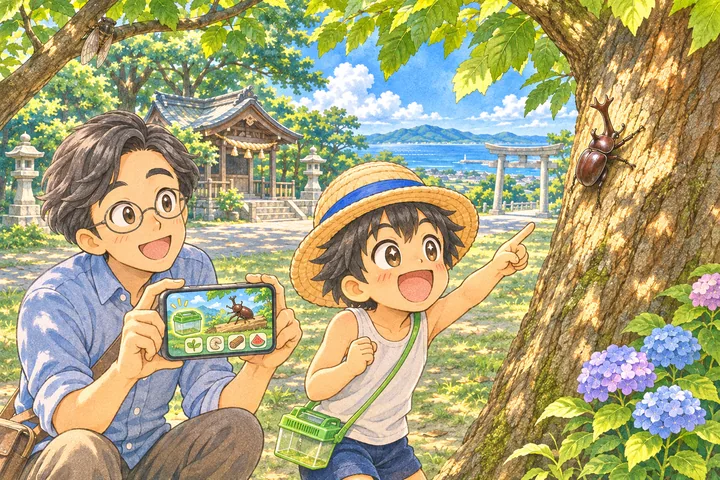
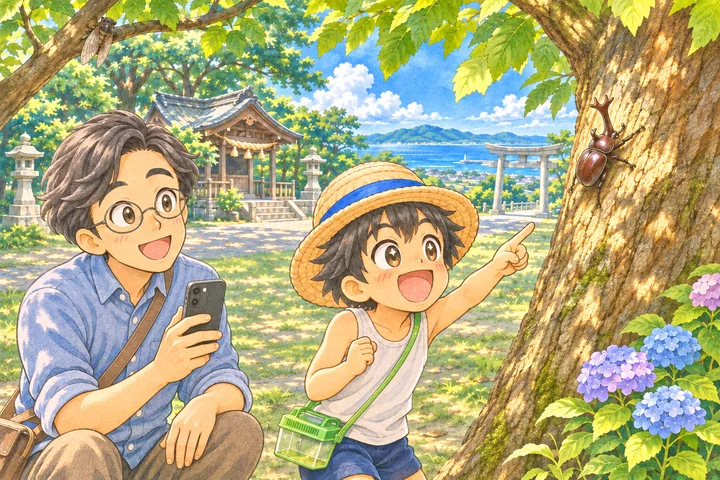
虫そだて日記：そとで虫とり＆スマホ／おうちで観察＆タブレットの言い方に、あそびかたにアイコン、トップのカードの文言をページに合わせる

diff --git a/mushisodate/index.html b/mushisodate/index.html
@@ -22,7 +22,7 @@
 <link rel="preconnect" href="https://fonts.googleapis.com">
 <link rel="preconnect" href="https://fonts.gstatic.com" crossorigin>
 <link href="https://fonts.googleapis.com/css2?family=Mochiy+Pop+One&family=Zen+Maru+Gothic:wght@500;700;900&display=swap" rel="stylesheet">
-<link rel="stylesheet" href="../assets/css/style.css?v=202611171400">
+<link rel="stylesheet" href="../assets/css/style.css?v=202611171600">
 </head>
 <body class="subpage" data-base="../">
 
@@ -84,17 +84,18 @@
       </section>
 
       <section class="doc g-flow reveal">
-        <h2><span class="h-ic" data-icon="pin"></span>そとでスマホ、おうちでタブレット</h2>
+        <h2><span class="h-ic" data-icon="pin"></span>そとで虫とり＆スマホでもゲット！<br>おうちで虫の観察＆タブレットでも</h2>
+        <p>本物の虫とりと、ゲームの体験を いっしょに楽しめます。</p>
         <ol class="g-flow-list">
-          <li class="reveal"><figure><img src="../assets/img/games/mushisodate/f_sagasu.webp" alt="神社の近くの大きな木で、おとうさんのスマホを持って、クワガタを見つけた男の子" width="720" height="480" loading="lazy"></figure>
-            <p class="f-dev"><img src="../assets/img/icons/pin.webp" alt="" width="24" height="24">そと・スマホ</p><h3>さがす・つかまえる</h3>
-            <p>おうちの人のスマホを持って、公園や神社、川や海べへ。いまいる場所で、その場所らしい虫が見つかります。</p></li>
+          <li class="reveal"><figure><img src="../assets/img/games/mushisodate/f_sagasu.webp?v=2" alt="神社の近くの大きな木で、カブトムシを見つけた男の子と、スマホを持ったおとうさん" width="720" height="480" loading="lazy"></figure>
+            <p class="f-dev"><img src="../assets/img/icons/pin.webp" alt="" width="24" height="24">そと・虫とり</p><h3>虫とり＆スマホでゲット</h3>
+            <p>公園や神社、川や海べで虫とり。スマホのゲームでも、その場所らしい虫が見つかります。</p></li>
           <li class="reveal"><figure><img src="../assets/img/games/mushisodate/f_toru.webp" alt="花にとまったアゲハチョウを、スマホのカメラで撮る男の子" width="720" height="480" loading="lazy"></figure>
             <p class="f-dev"><img src="../assets/img/icons/camera.webp" alt="" width="24" height="24">そと・スマホのカメラ</p><h3>撮る</h3>
             <p>本物の虫を見つけたら、カメラでパチリ。「どの虫だった？」からえらぶと、その虫をつかまえられます。</p></li>
           <li class="reveal"><figure><img src="../assets/img/games/mushisodate/f_sodateru.webp" alt="おうちで、タブレットの虫かごの画面を見ながら虫をそだてる男の子とおとうさん" width="720" height="480" loading="lazy"></figure>
-            <p class="f-dev"><img src="../assets/img/icons/home.webp" alt="" width="24" height="24">おうち・タブレット／パソコン</p><h3>おうちでそだてる</h3>
-            <p>つかまえた虫は、QRコードで おうちのタブレットやパソコンへ。エサ・きりふき・そうじをして、羽化したら もとの場所にかえそう。</p></li>
+            <p class="f-dev f-dev-long"><img src="../assets/img/icons/home.webp" alt="" width="24" height="24">おうち・虫のしいく<br>タブレット／パソコン</p><h3>観察して、そだてる</h3>
+            <p>つかまえた虫は、QRコードでタブレットやパソコンへ。本物の虫の観察といっしょに、そだてよう。</p></li>
         </ol>
         <p class="g-small">※虫をそだてるのは、画面の大きなタブレット・パソコンがおすすめです。スマホは、外で虫をつかまえる「虫とり用」に。</p>
       </section>
@@ -116,10 +117,10 @@
       <section class="doc reveal">
         <h2><span class="h-ic" data-icon="join"></span>あそびかた</h2>
         <ol class="g-steps">
-          <li class="g-step reveal"><span class="s-no">1</span><h3>ストーリー</h3><p>7月19日から8月31日までの夏休み。虫をそだてながら、宗像の6つの場所で出会う ふしぎを追いかける物語です。</p></li>
-          <li class="g-step reveal"><span class="s-no">2</span><h3>じゆうに育てる</h3><p>すきな場所で虫をさがして、すきなだけそだてよう。おみせ・虫ずもう・ずかんで、しるし（虫そだて名人・虫はかせ）をめざそう。</p></li>
-          <li class="g-step reveal"><span class="s-no">3</span><h3>そとで虫をつかまえる（スマホ）</h3><p>おうちの人のスマホで、いまいる場所の虫をさがそう。近くの公園や神社、川や海べなら、その場所らしい虫が見つかります。</p></li>
-          <li class="g-step reveal"><span class="s-no">4</span><h3>おうちのタブレットにおくる</h3><p>そとでつかまえた虫は、QRコードで おうちのタブレットやパソコンへ。帰ってから虫かごでそだてられます。</p></li>
+          <li class="g-step reveal"><span class="s-no">1</span><h3><img class="st-ic" src="../assets/img/games/mushisodate/i_story.webp" alt="">ストーリー</h3><p>7月19日から8月31日までの夏休み。虫をそだてながら、宗像の6つの場所で出会う ふしぎを追いかける物語です。</p></li>
+          <li class="g-step reveal"><span class="s-no">2</span><h3><img class="st-ic" src="../assets/img/games/mushisodate/i_jiyu.webp" alt="">じゆうに育てる</h3><p>すきな場所で虫をさがして、すきなだけそだてよう。おみせ・虫ずもう・ずかんで、しるし（虫そだて名人・虫はかせ）をめざそう。</p></li>
+          <li class="g-step reveal"><span class="s-no">3</span><h3><img class="st-ic" src="../assets/img/games/mushisodate/i_soto.webp" alt="">そとで虫をつかまえる（スマホ）</h3><p>おうちの人のスマホで、いまいる場所の虫をさがそう。近くの公園や神社、川や海べなら、その場所らしい虫が見つかります。</p></li>
+          <li class="g-step reveal"><span class="s-no">4</span><h3><img class="st-ic" src="../assets/img/games/mushisodate/i_okuru.webp" alt="">おうちのタブレットにおくる</h3><p>そとでつかまえた虫は、QRコードで おうちのタブレットやパソコンへ。帰ってから虫かごでそだてられます。</p></li>
         </ol>
       </section>
 

diff --git a/assets/js/main.js b/assets/js/main.js
@@ -481,7 +481,8 @@
   /* ───── あそぶ ───── */
   // ゲームの特長のしるし（site.json の games[].tags）
   const GAME_TAG = { free: '無料', browser: 'ダウンロードなし', tablet: 'お子さまはタブレットで' };
-  const gameTags = tags => (tags || []).length ? `<ul class="g-tags">${tags.filter(t => GAME_TAG[t]).map(t => `<li>${uiIcon(t)}${GAME_TAG[t]}</li>`).join('')}</ul>` : '';
+  // tagText：ゲームごとに言い方をかえる（例：虫そだて日記は「あそぶのは タブレット・パソコン」。紹介ページの文言に合わせる）
+  const gameTags = (tags, over) => (tags || []).length ? `<ul class="g-tags">${tags.filter(t => GAME_TAG[t]).map(t => `<li>${uiIcon(t)}${esc((over || {})[t] || GAME_TAG[t])}</li>`).join('')}</ul>` : '';
   function renderGames() {
     $('#gameGrid').innerHTML = (SITE.games || []).map(g => {
       const open = g.status === 'open' && g.url;
@@ -492,7 +493,7 @@
         ${g.badge ? `<span class="g-badge">${uiIcon('star')}${er(g.badge)}</span>` : ''}
         ${open ? `<a href="${esc(g.url)}" target="_blank" rel="noopener" tabindex="-1" aria-hidden="true">${visual}</a>` : visual}
         <div class="g-body"><h3>${er(g.title)}</h3><p>${er(g.desc)}</p>
-        ${gameTags(g.tags)}
+        ${gameTags(g.tags, g.tagText)}
         <div class="g-btns">${g.page ? `<a class="btn btn-sub g-info" href="${esc(g.page)}">ゲームの内容</a>` : ''}
         ${open ? `<a class="btn btn-main" href="${esc(g.url)}" target="_blank" rel="noopener">あそぶ ▶</a>` : '<span class="btn">もうすぐ公開</span>'}</div></div>
       </article>`;

diff --git a/index.html b/index.html
@@ -38,7 +38,7 @@
 <link rel="preconnect" href="https://fonts.googleapis.com">
 <link rel="preconnect" href="https://fonts.gstatic.com" crossorigin>
 <link href="https://fonts.googleapis.com/css2?family=Mochiy+Pop+One&family=Zen+Maru+Gothic:wght@500;700;900&display=swap" rel="stylesheet">
-<link rel="stylesheet" href="assets/css/style.css?v=202611171400">
+<link rel="stylesheet" href="assets/css/style.css?v=202611171600">
 </head>
 <body>
 
@@ -386,7 +386,7 @@
 
 <script src="assets/js/icons.js?v=202611121300"></script>
 <script src="assets/js/apply.js?v=202611101657"></script>
-<script src="assets/js/main.js?v=202611161200"></script>
+<script src="assets/js/main.js?v=202611171600"></script>
 <script src="assets/js/share.js?v=202611121900"></script>
 </body>
 </html>

diff --git a/assets/css/style.css b/assets/css/style.css
@@ -1624,3 +1624,6 @@ img.dd { height: auto; pointer-events: none; filter: drop-shadow(0 3px 0 rgba(38
   .g-flow-list { grid-template-columns: 1fr; gap: 34px; max-width: 420px; margin-left: auto; margin-right: auto; }
   .g-flow-list li + li::before { content: "▼"; left: 50%; top: -28px; transform: translateX(-50%); }
 }
+.g-flow-list .f-dev-long { white-space: normal; border-radius: 14px; line-height: 1.5; }
+.g-flow h2 { line-height: 1.5; }
+.g-steps .st-ic { display: block; width: 64px; height: 64px; object-fit: contain; margin: 0 auto 6px; }
